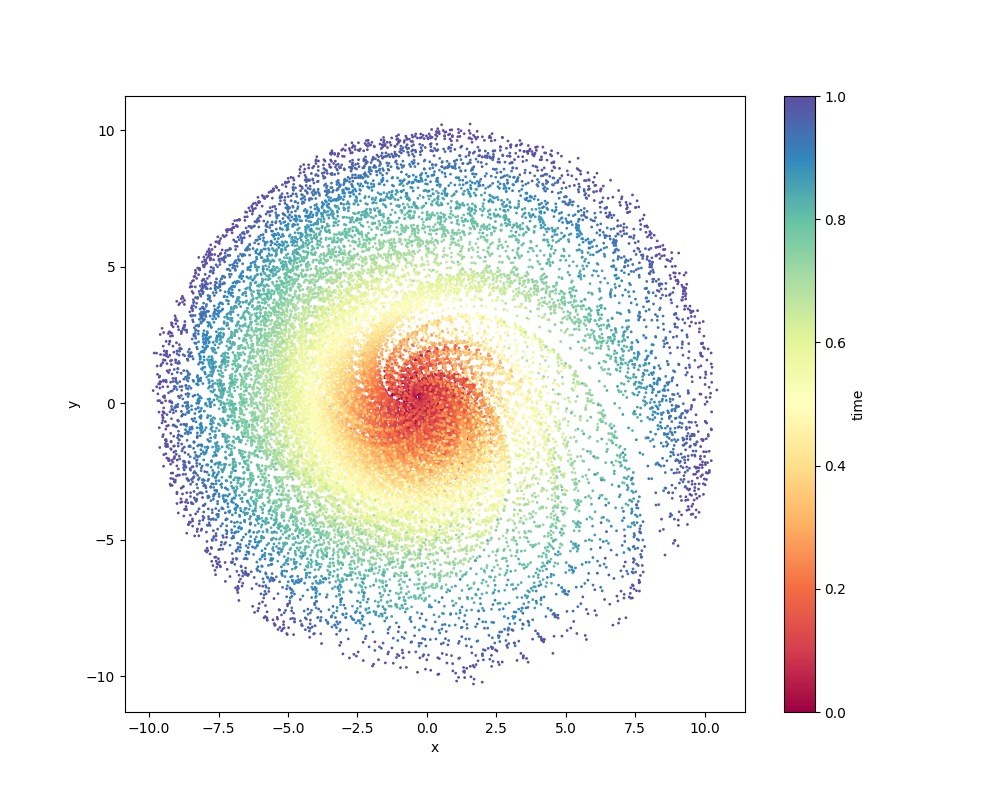
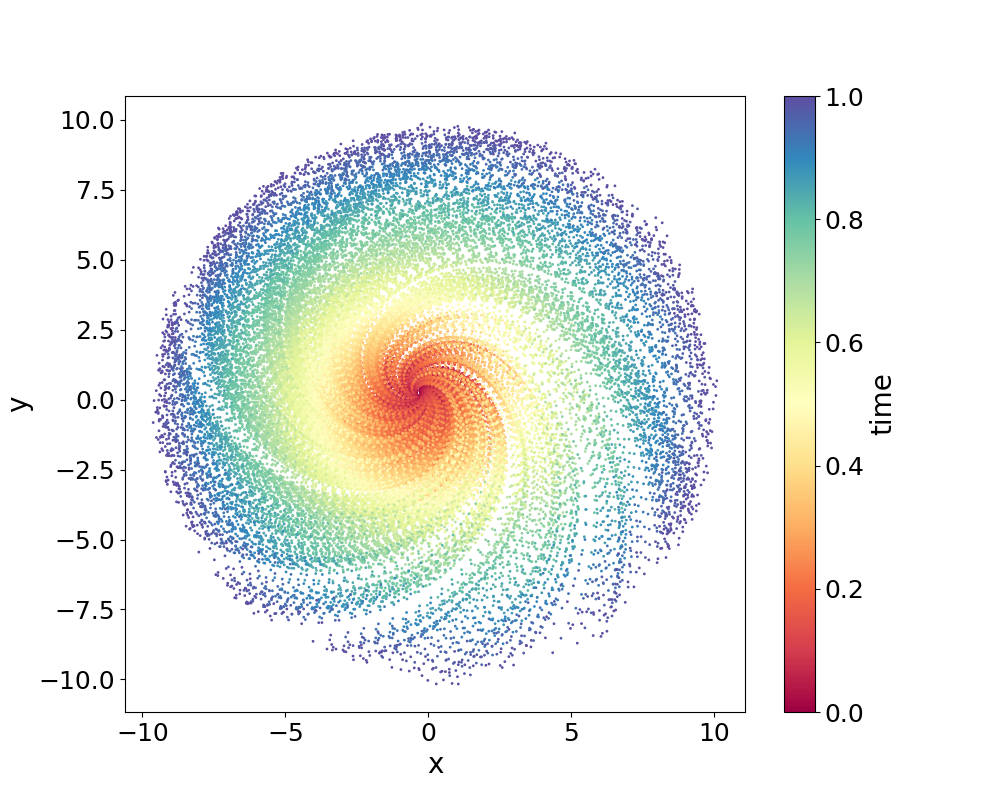
update

diff --git a/mf_model.py b/mf_model.py
@@ -26,11 +26,11 @@ if use_sys:
         use_gpu = False
 else:
     time_frac = 1.0
-    data_name = 'circle'
-    method = 'fbsde_score'
-    setting_id = 31
+    data_name = 'root'
+    method = 'soft'
+    setting_id = 10
     n_layers = 2
-    use_gpu = True
+    use_gpu = False
 
 np.random.seed(12345)
 torch.manual_seed(54321)
@@ -141,7 +141,27 @@ if param_list['h'] == 0:
 # else:
 #     param_list['h'] = np.diag(np.ones(2) * param_list['h'])
 param_list['n_layers'] = n_layers
-# param_list['n_iter'] = 1000
+
+param_list['n_iter'] = 1000
+if data_name == 'wot':
+    param_list['nt'] = 100
+    param_list['n_test'] = 200
+    param_list['s1'] = 0.01
+    param_list['s2'] = 0.01
+elif data_name == 'root':
+    param_list['nt'] = param_list['nt_grid']
+    param_list['n_test'] = 200
+    param_list['s1'] = 0.01
+    param_list['s2'] = 0.01
+elif data_name == 'moon':
+    param_list['nt'] = param_list['nt_grid']
+    param_list['n_test'] = 500
+    param_list['s1'] = 0.01
+    param_list['s2'] = 0.01
+elif data_name == 'circle':
+    param_list['nt'] = 50
+    param_list['s1'] = 0.01
+    param_list['s2'] = 0.01
 
 data_all, T = load.load(data_name)
 
@@ -232,6 +252,22 @@ else:
     elif method == 'fb_mixed_score':
         res = nn_framework.train_alg_mfc_fb_mixed(data, T=T, track=True, use_score=True, **param_list)
         res_sim = nn_framework.sim_path_mixed(res, x0, T=T, t_check=t_check, fb=True, plot=True, **param_list)
+
+# Get the current figure and axes
+fig = plt.gcf()
+ax = plt.gca()
+
+# Create a colorbar using the current plot
+cbar = ax.collections[0].colorbar
+cbar.set_label('time', fontsize=20)
+
+# Modify colorbar properties
+cbar.ax.tick_params(labelsize=18)
+
+# Set axis title and ticklabel font properties
+ax.set_xlabel('x', fontsize=20)
+ax.set_ylabel('y', fontsize=20)
+ax.tick_params(labelsize=18)
 
 if save_model:
 

diff --git a/ot_model.py b/ot_model.py
@@ -11,8 +11,8 @@ from param import param_info
 import time
 start_time = time.time()
 
-save_model = True
-use_sys = True
+save_model = False
+use_sys = False
 if use_sys:
     import sys
     time_frac = float(sys.argv[1])
@@ -22,10 +22,10 @@ if use_sys:
     m = int(sys.argv[5])
 else:
     time_frac = 1.0
-    data_name = 'wot'
+    data_name = 'root'
     method = 'disc_ot'
-    setting_id = 4
-    m = 1
+    setting_id = 10
+    m = 0
 
 np.random.seed(12345)
 
@@ -47,6 +47,13 @@ elif data_name == 'moon':
     param_list['n_test'] = 500
     param_list['s1'] = 0.01
     param_list['s2'] = 0.01
+elif data_name == 'circle':
+    param_list['nt'] = 50
+    param_list['s1'] = 0.01
+    param_list['s2'] = 0.01
+
+param_list['nt'] = 1000
+# param_list['n_test'] = 1000
 
 for name, info in param_info.items():
     param_list[name] = info(param_list[name])
@@ -146,6 +153,22 @@ res = pd.DataFrame(res, columns=['x', 'y', 'time'])
 
 res.plot.scatter(x='x', y='y', c='time', cmap='Spectral', s=1, figsize=(10, 8))
 # plt.savefig(img_name)
+
+# Get the current figure and axes
+fig = plt.gcf()
+ax = plt.gca()
+
+# Create a colorbar using the current plot
+cbar = ax.collections[0].colorbar
+cbar.set_label('time', fontsize=20)
+
+# Modify colorbar properties
+cbar.ax.tick_params(labelsize=18)
+
+# Set axis title and ticklabel font properties
+ax.set_xlabel('x', fontsize=20)
+ax.set_ylabel('y', fontsize=20)
+ax.tick_params(labelsize=18)
 
 if save_model:
     df_name = 'data/sample/m' + str(m) + '_' + data_name + '_' + method + '_sim_full_id' + str(setting_id) + '.csv'

diff --git a/simulation.py b/simulation.py
@@ -14,8 +14,8 @@ from param import param_info
 import time
 start_time = time.time()
 
-save_data = True
-use_sys = True
+save_data = False
+use_sys = False
 if use_sys:
     import sys
     time_frac = float(sys.argv[1])
@@ -173,6 +173,25 @@ elif method == 'stat_ot':
         res_sim = np.vstack((res_sim, x))
     res_sim = np.hstack((res_sim, np.repeat(t_sim, param_list['n_test']).reshape(-1, 1)))
     res_sim = pd.DataFrame(res_sim, columns=['x', 'y', 'time'])
+
+res_sim.plot.scatter(x='x', y='y', c='time', cmap='Spectral', s=1, figsize=(10, 8))
+# plt.savefig(img_name)
+
+# Get the current figure and axes
+fig = plt.gcf()
+ax = plt.gca()
+
+# Create a colorbar using the current plot
+cbar = ax.collections[0].colorbar
+cbar.set_label('time', fontsize=20)
+
+# Modify colorbar properties
+cbar.ax.tick_params(labelsize=18)
+
+# Set axis title and ticklabel font properties
+ax.set_xlabel('x', fontsize=20)
+ax.set_ylabel('y', fontsize=20)
+ax.tick_params(labelsize=18)
 
 df_sim_name = 'data/sim/m' + str(m) + '_' + data_name + '_' + method + '_sim_r' + str(time_frac).replace('.', '_') + '.csv'
 df_test_name = 'data/sim/m' + str(m) + '_' + data_name +  '_' + method + '_test_r' + str(time_frac).replace('.', '_') + '.csv'

diff --git a/mf_sim.py b/mf_sim.py
@@ -22,9 +22,9 @@ if use_sys:
     m = int(sys.argv[6])
 else:
     time_frac = 1.0
-    data_name = 'circle'
+    data_name = 'root'
     method = 'fbsde_score'
-    setting_id = 23
+    setting_id = 10
     n_layers = 2
     m = 0
 
@@ -132,6 +132,24 @@ elif method == 'fb_mixed':
     res_sim = nn_framework.sim_path_mixed(res, x0, T=T, t_check=t_check, fb=True, plot=True, **param_list)
 elif method == 'fb_mixed_score':
     res_sim = nn_framework.sim_path_mixed(res, x0, T=T, t_check=t_check, fb=True, plot=True, **param_list)
+
+import matplotlib.pyplot as plt
+
+# Get the current figure and axes
+fig = plt.gcf()
+ax = plt.gca()
+
+# Create a colorbar using the current plot
+cbar = ax.collections[0].colorbar
+cbar.set_label('time', fontsize=20)
+
+# Modify colorbar properties
+cbar.ax.tick_params(labelsize=18)
+
+# Set axis title and ticklabel font properties
+ax.set_xlabel('x', fontsize=20)
+ax.set_ylabel('y', fontsize=20)
+ax.tick_params(labelsize=18)
 
 if save_model:
     df_name = 'data/sample/m' + str(m) + '_' + data_name + '_' + method + '_sim_full_id' + str(setting_id) + '_l' + str(n_layers) + '.csv'

diff --git a/load.py b/load.py
@@ -119,3 +119,14 @@ def mnist_scatter(img):
                 y = np.random.uniform(low=ylim - i - 2, high=ylim - i - 1)
                 data = np.vstack((data, np.array([x, y])))
     return data
+
+
+def sde_plot(data):
+    sct = data.plot.scatter(x='x', y='y', s=1, c='time', cmap='Spectral', figsize=(8, 6))
+    cbar = sct.collections[0].colorbar
+    sct.set_xlabel('x', fontsize=20)
+    sct.set_ylabel('y', fontsize=20)
+    sct.tick_params(axis='x', labelsize=18)
+    sct.tick_params(axis='y', labelsize=18)
+    cbar.set_label('time', fontsize=20)
+    cbar.ax.tick_params(labelsize=18)
